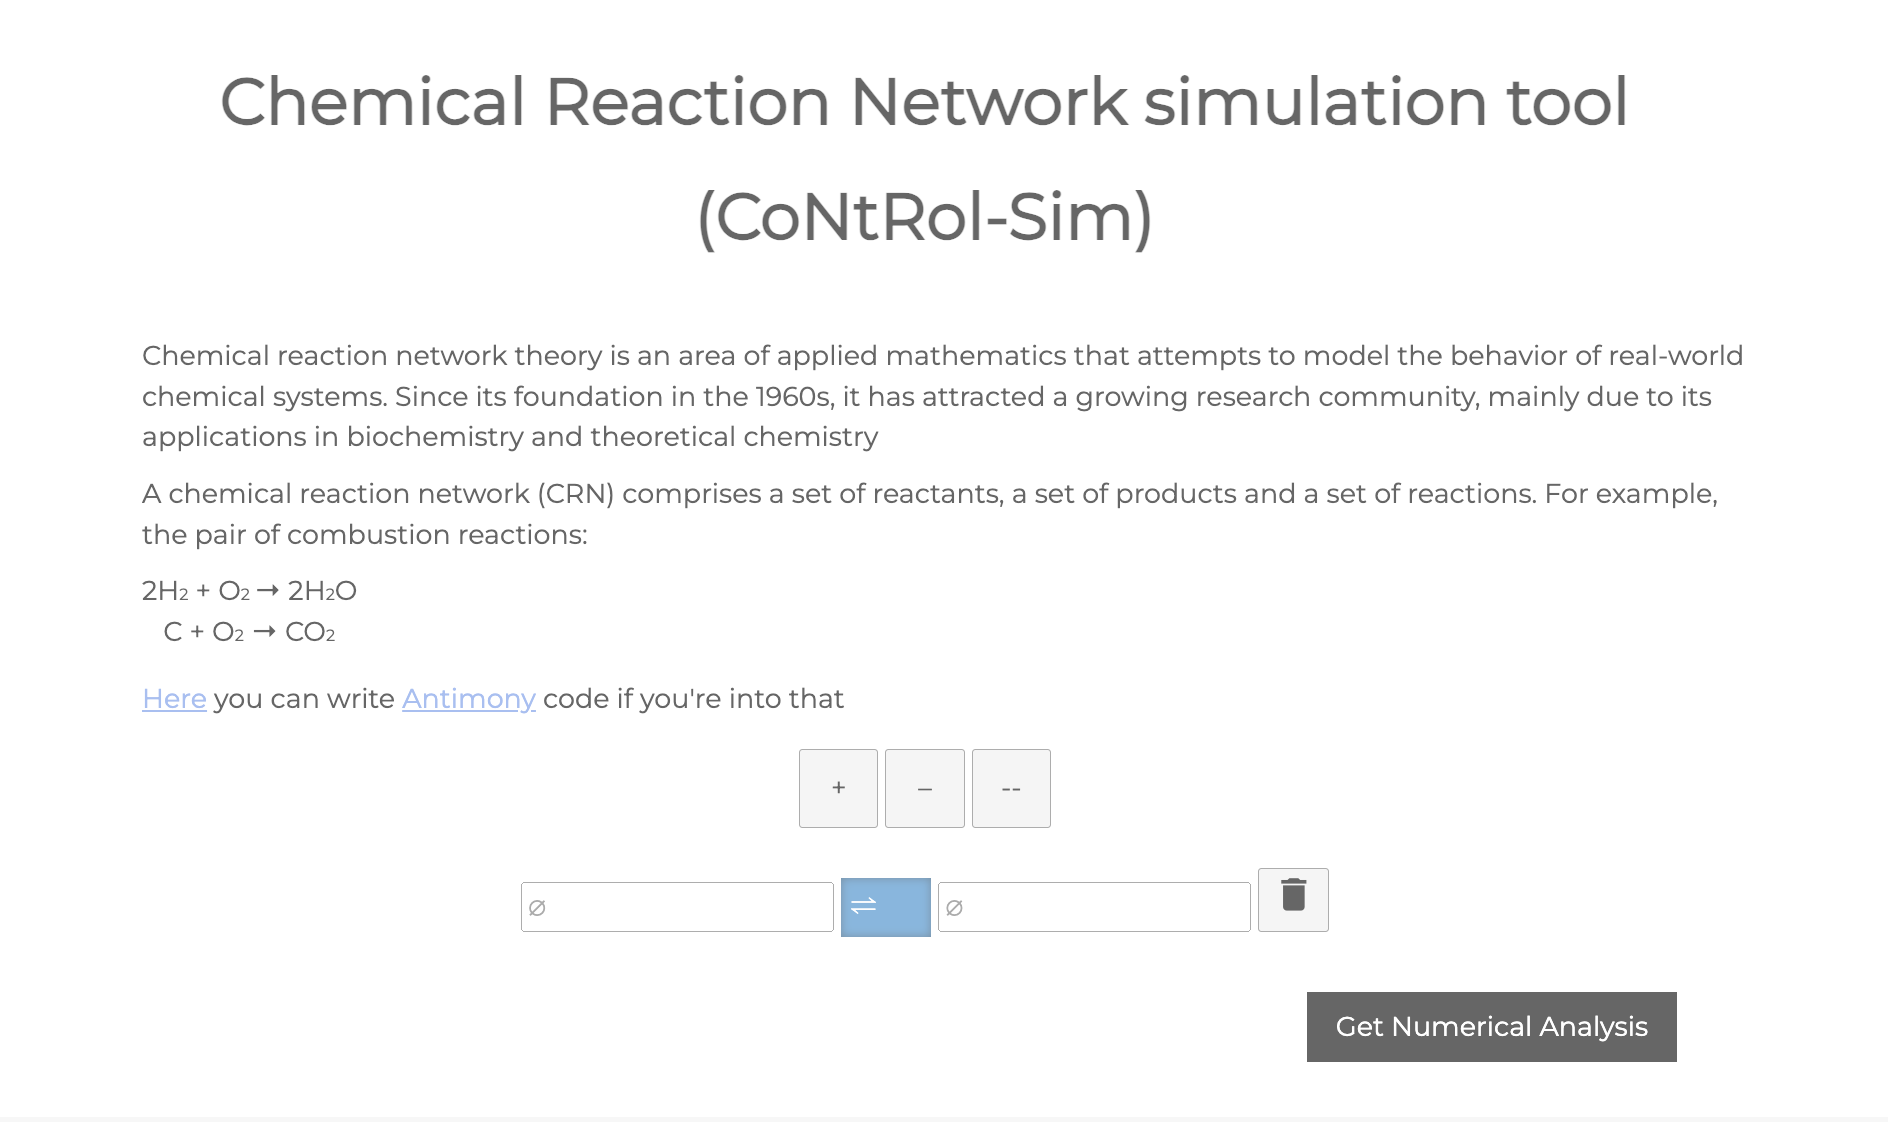
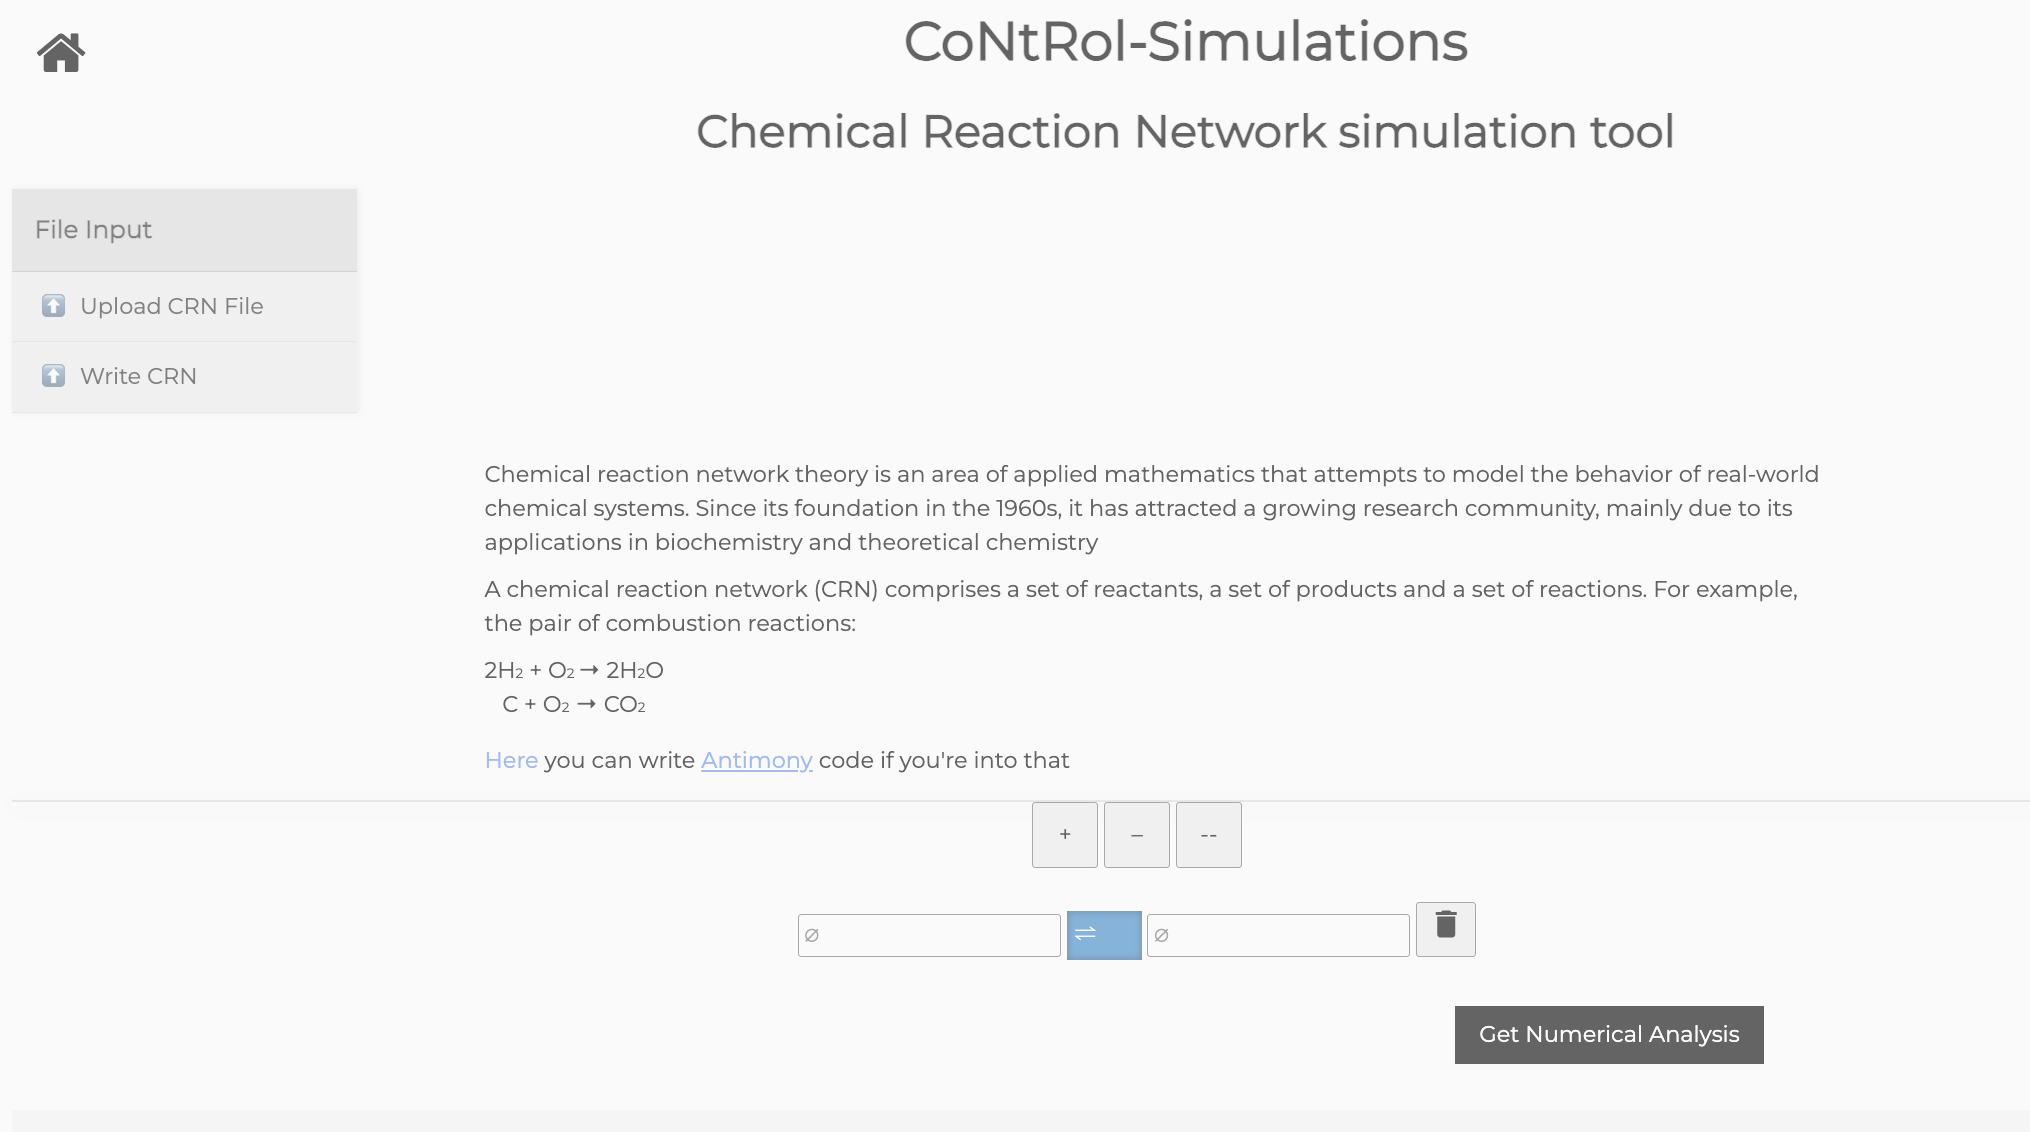
fct ss-uri mai up-to-date

diff --git a/chapters/chapter5_webapp.tex b/chapters/chapter5_webapp.tex
@@ -98,29 +98,29 @@ Among the wall of output will also be the line showing the address your server i
 	\includegraphics[width=13cm]{app_photos/control_home_screen.png}\\
 \]
 
-You can either use this as a starting point or the page located at the \verb|/antimony| path:
-
-\[
-	\includegraphics[width=13cm]{app_photos/control_antimony_home.png}\\
-\]
-Both of these redirect to \verb|/numerical_analysis| analysing the system \ldots well, numerically.
-As an example, this Antimony code:
-
-\begin{lstlisting}
-S0 -> KS1; k1*S0
-KS1 -> S2; k2*KS1
-S2 + F -> FS2; k3*S2*F
-FS2 -> F; k4*FS2
-F -> S0 + F; k5*F
-\end{lstlisting}
-
-and its longer to write alternative:
+To start, you can either start typing equations inside those pre-aligned fields like so:
 
 \[
 	\includegraphics[width=13cm]{app_photos/creca-prima-data-cand-am-scris-asta.png}\\
 \]
 
-both yield the same numerical analysis results:
+or put the equations you're analysing:
+
+\begin{lstlisting}
+S0 -> KS1
+KS1 -> S2
+S2 + F -> FS2
+FS2 -> F
+F -> S0 + F
+\end{lstlisting}
+
+right into the \verb|textfield| that pops up when clicking "Write CRN".
+
+\[
+	\includegraphics[width=13cm]{app_photos/antimony_area.png}\\
+\]
+
+both of these options / paths yield the same numerical analysis results:
 
 \[
 	\includegraphics[width=13cm]{app_photos/numerical_analysis.png}\\
@@ -132,7 +132,7 @@ from here, one can choose from a selection of graphs they can represent given th
 	\includegraphics[width=13cm]{app_photos/tsr-input.png}\\
 \]
 
-from which we fill out the initial values of the concentrations for each species as, well as the reaction rates. So given, for example the values:\label{last_system_init_cond}
+from which we fill out the initial values of the concentrations for each species as, well as the reaction rates. As you can see, we've found oscillations for network \ref{network3_irr_ss} \label{last_system_init_cond}
 \begin{lstlisting}
     F = 0.874108
     FS2 = 7.620157734

diff --git a/chapters/chapter4.tex b/chapters/chapter4.tex
@@ -1008,6 +1008,6 @@ Also, $\frac{d  \det \text{H}_3(t) }{dt} = 2 t \lambda^6 g(t) + t^2 \lambda^6 g'
 
 Meaning \ref{network3_irr_ss} undergoes a simple Hopf bifurcation for that $t_1$ and $\forall \lambda > 0$ and some $h_3, h_4 > 0$ fixed.
 
-In the section \ref{last_system_init_cond}, I'm plotting this sytem using \href{https://github.com/viktorashi/bachelor-thesis.git}{the app} for those initial conditions and rate constants, obtain simmilarly to \ref{network2}, as you can see, these also admit oscillations.
+In the section \ref{last_system_init_cond}, I'm plotting this sytem using \href{https://github.com/viktorashi/bachelor-thesis.git}{the app} for some initial conditions and rate constants, found simmilarly to \ref{network2}, as you can see, these also admit oscillations.
 
 Now we know system \ref{network3_irr_ss} undergoes bifurcations, which means \ref{network3_irr_s}, \ref{network3_irr} and \ref{network3} all do, respectively.
